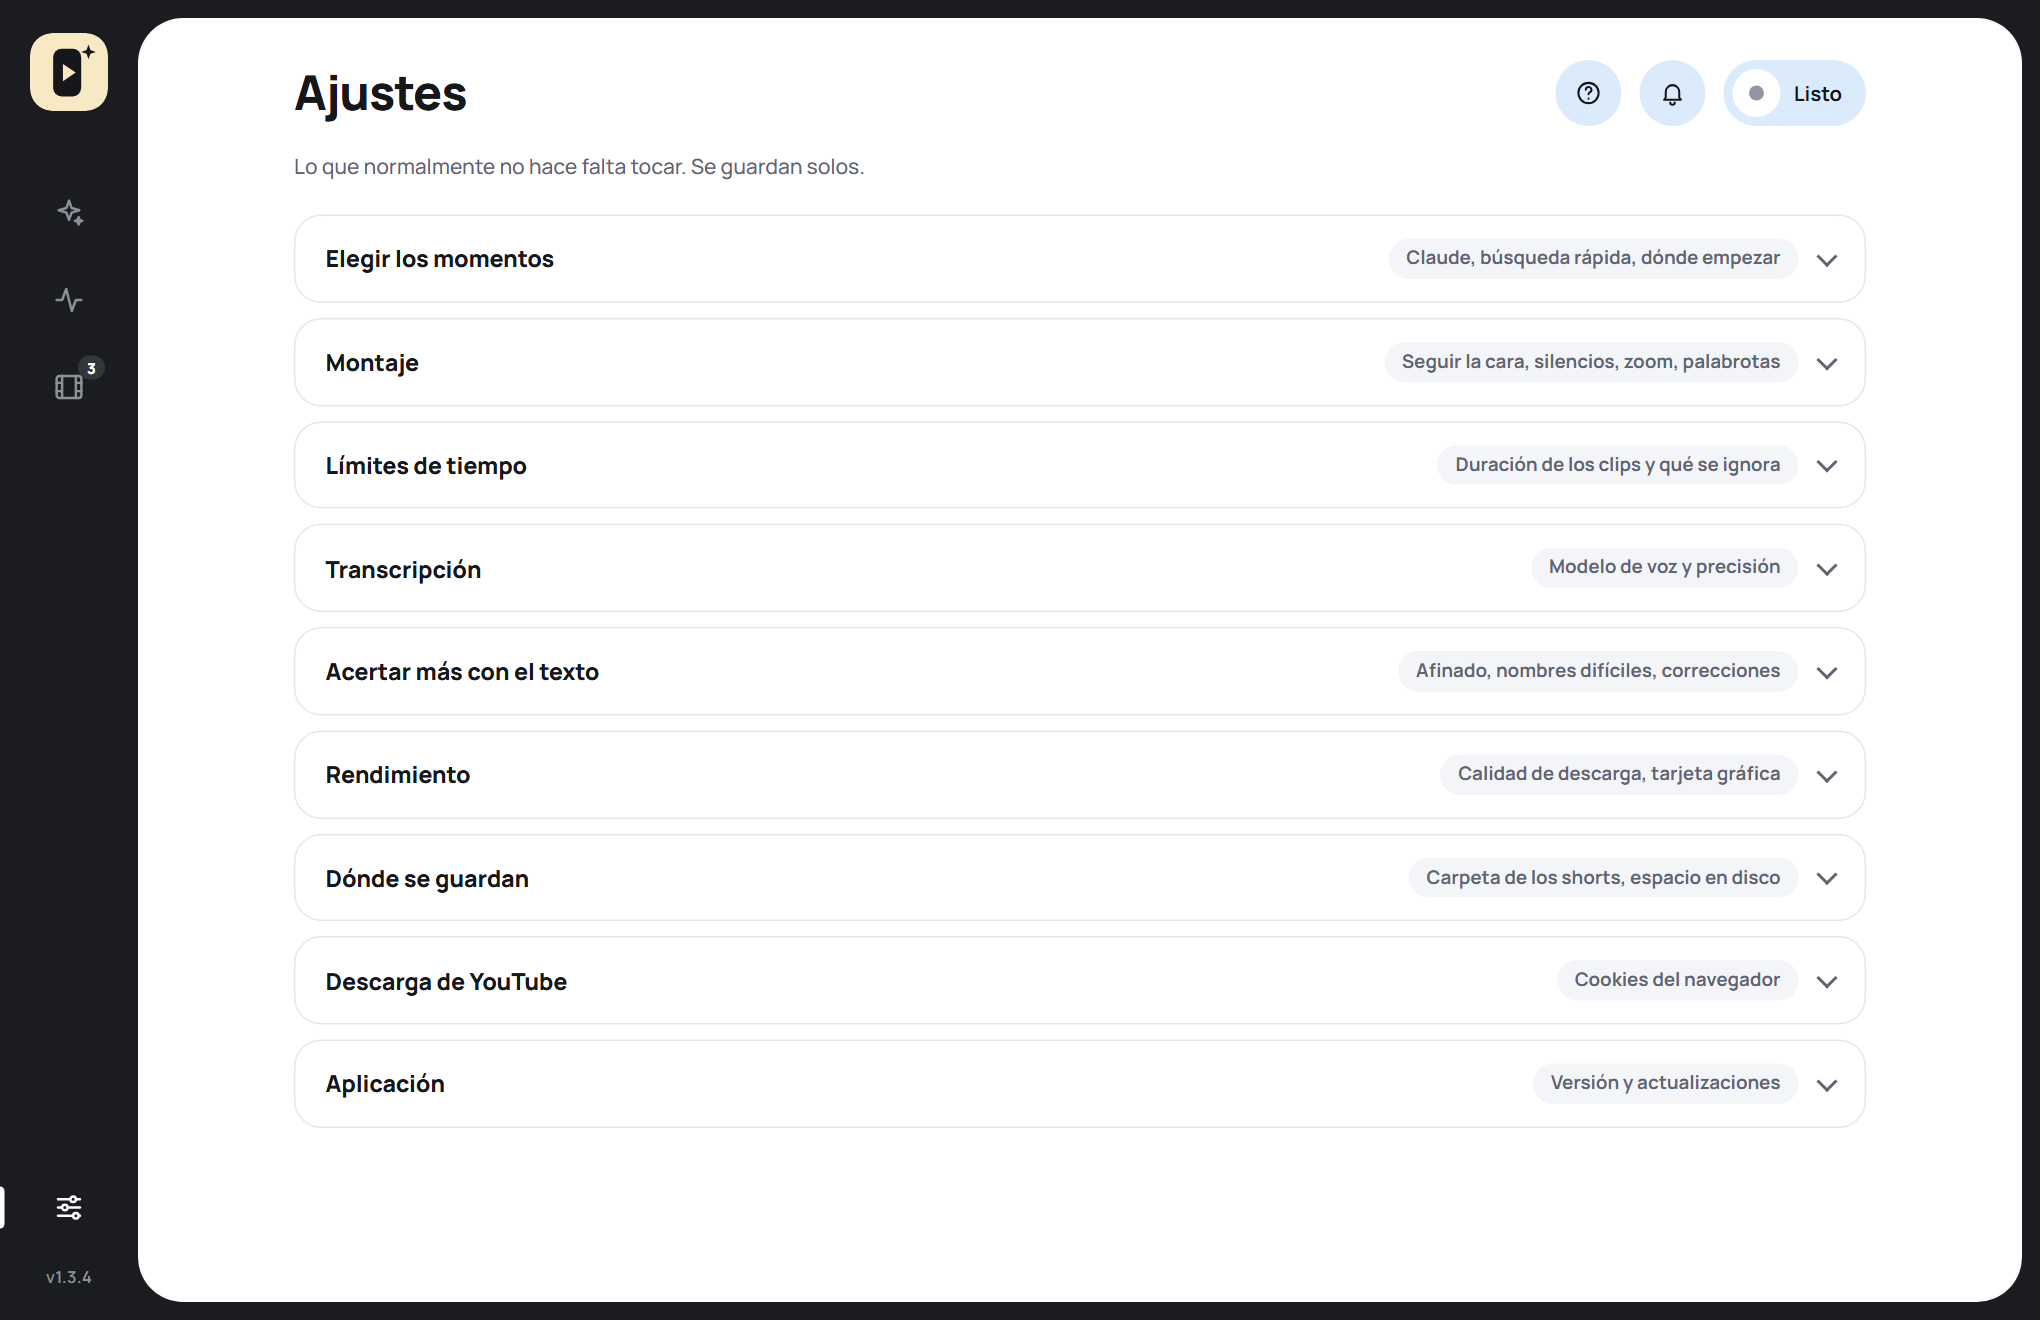
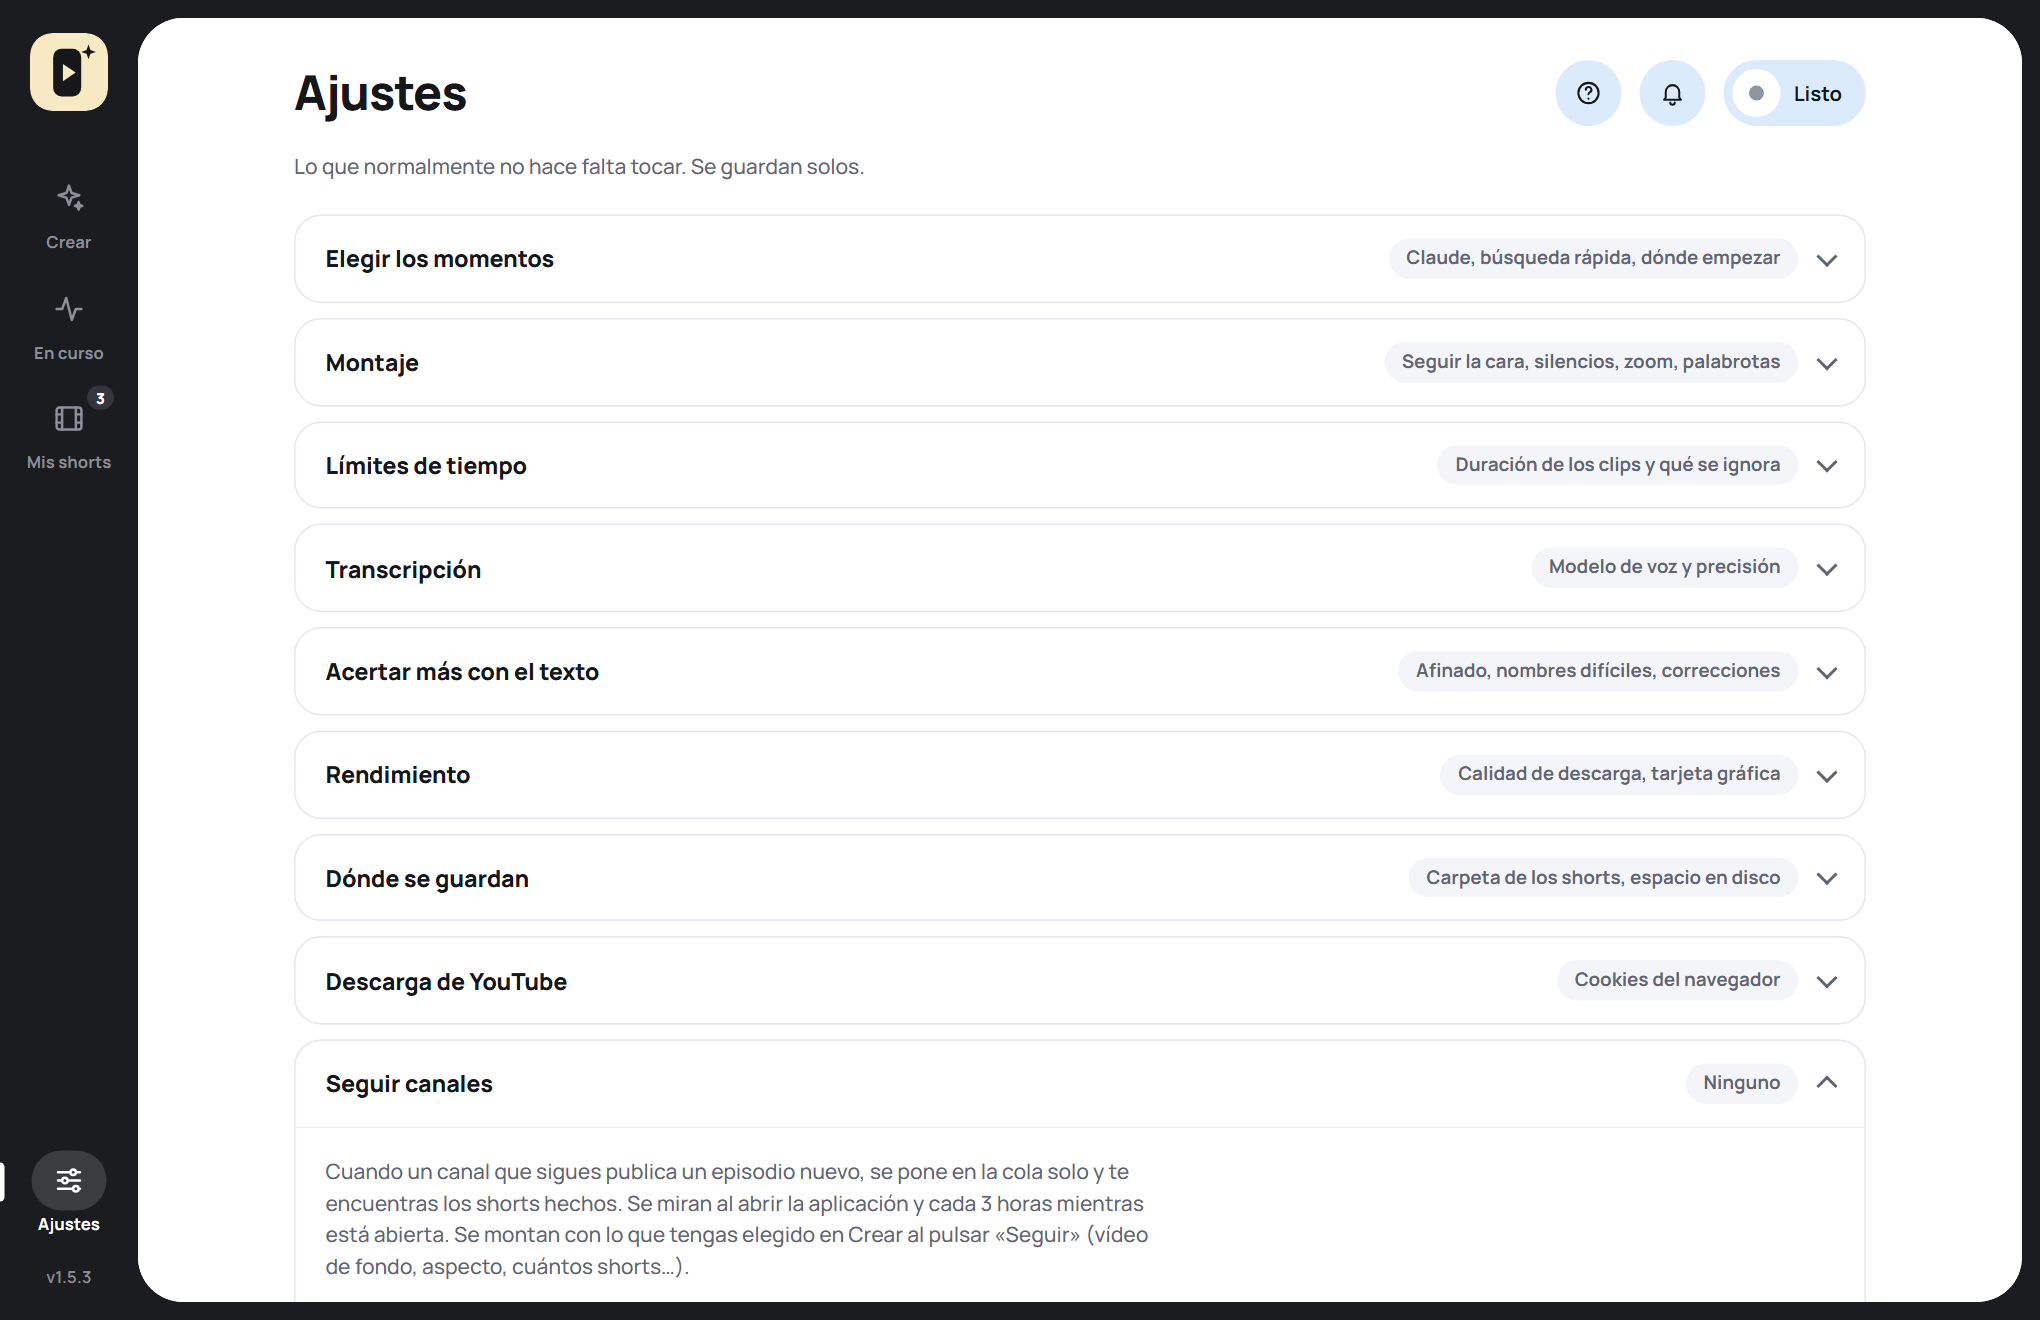
README: capturas con la estetica nueva

diff --git a/README.md b/README.md
@@ -17,7 +17,7 @@
 </p>
 
 <p align="center">
-  <img src="docs/img/crear.png" alt="Pantalla Crear de Viral Shorts, con el monitor 9:16 a la derecha" width="900">
+  <img src="docs/img/crear.png" alt="Pantalla Crear de Viral Shorts, con la vista previa 9:16 y la lista «Antes de generar» a la derecha" width="900">
 </p>
 
 ## Cómo funciona
@@ -73,7 +73,10 @@
   </tr>
   <tr>
     <td width="50%"><img src="docs/img/mis-shorts.png" alt="Biblioteca de shorts con búsqueda"><br><sub><b>Mis shorts.</b> Todo lo generado, con búsqueda, título editable y texto para copiar.</sub></td>
-    <td width="50%"><img src="docs/img/crear-oscuro.png" alt="Tema oscuro con composición en el centro y subtítulos neón"><br><sub><b>Tema claro u oscuro</b>, según tu Windows.</sub></td>
+    <td width="50%"><img src="docs/img/ajustes.png" alt="Ajustes agrupados por apartados"><br><sub><b>Ajustes.</b> Lo que normalmente no hace falta tocar, por apartados: YouTube, canales, tarjeta gráfica…</sub></td>
+  </tr>
+  <tr>
+    <td colspan="2"><img src="docs/img/crear-oscuro.png" alt="Tema oscuro con la composición Dos personas y subtítulos neón"><br><sub><b>Tema claro u oscuro</b>, según tu Windows. Aquí, la composición <i>Dos personas</i> con subtítulos neón.</sub></td>
   </tr>
 </table>
 
@@ -90,7 +93,7 @@
 ## Tu primer short
 
 1. En **Crear**, pega el enlace del pódcast y el del vídeo de fondo.
-2. Elige cuántos shorts quieres, cuánto duran y la calidad del análisis (*Equilibrada* va bien para empezar).
+2. Elige cuántos shorts quieres, cuánto duran y cuánto cuidado con el texto (*Equilibrado* va bien para empezar). Si quieres, cambia el aspecto en la pestaña **Aspecto**.
 3. Pulsa **Generar** (el botón dice cuántos: «Generar 3 shorts») y mira cómo avanza en **En curso**. Cuando termina, están en **Mis shorts**.
 
 Si prefieres decidir tú qué momentos se montan, usa **Elegir yo los momentos**.
